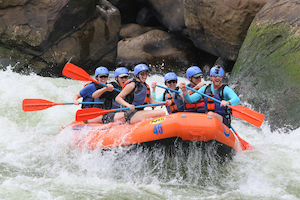
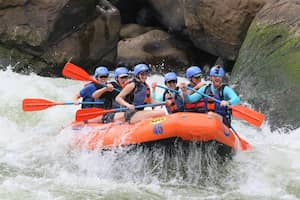
Optimize images and fonts to reduce page weight

diff --git a/wwr/about.html b/wwr/about.html
@@ -57,7 +57,7 @@
                 power of the river.</p>
         </section>
         <section class="adventures">
-            <h2>Adventures</h2>
+            <h2>Adventure Awaits You!</h2>
             <div class="adventure-gallery">
                 <figure>
                     <img src="images/dientes-diablo.jpg" alt="Los Dientes del Diablo rapid">
